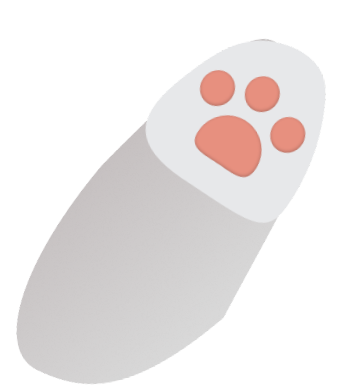
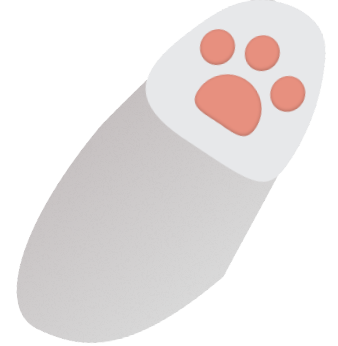
it working work...good

diff --git a/Petsitter/wwwroot/css/site.css b/Petsitter/wwwroot/css/site.css
@@ -1831,16 +1831,16 @@ body.light {
 
 .cat__footer__hand {
     position: absolute;
-    bottom: 0;
-    right: 250px; 
+    bottom: 25px;
+    right: 280px; 
     z-index: -1;
-    width: 400px;
+    width: 300px;
     height: auto;
 }
 
 @keyframes handMove {
     0% {
-        transform: rotate(0deg);
+        transform: rotate(-20deg);
     }
     25% {
        
@@ -1851,7 +1851,7 @@ body.light {
     }
 
     100% {
-        transform: rotate(0deg);
+        transform: rotate(-20deg);
     }
 }
 

diff --git a/Petsitter/Models/PetSitterContext.cs b/Petsitter/Models/PetSitterContext.cs
@@ -29,6 +29,8 @@ namespace Petsitter.Models
         public virtual DbSet<IPN> IPNs { get; set; } = null!;
         public virtual DbSet<Message> Messages { get; set; } = null!;
         public virtual DbSet<Chat> Chats { get; set; } = null!;
+        public virtual DbSet<News> News { get; set; } = null!;
+
 
 
         protected override void OnConfiguring(DbContextOptionsBuilder optionsBuilder)
@@ -391,7 +393,36 @@ namespace Petsitter.Models
                     .HasConstraintName("FK_Chats_User2");
             });
 
+            modelBuilder.Entity<News>(entity =>
+            {
+                entity.HasKey(e => e.Id)
+                    .HasName("PK_News");
+
+                entity.ToTable("News");
+
+                entity.Property(e => e.Id)
+                    .ValueGeneratedOnAdd();
+
+                entity.Property(e => e.Title)
+                    .HasMaxLength(255)
+                    .IsRequired();
+
+                entity.Property(e => e.Body)
+                    .IsRequired();
+
+                entity.Property(e => e.Date)
+                    .IsRequired();
+
+                entity.Property(e => e.Image)
+                    .HasColumnType("varbinary(MAX)");
+
+                entity.Property(e => e.Category)
+                    .HasMaxLength(255);
+            });
+
+
             OnModelCreatingPartial(modelBuilder);
+
         }
 
         partial void OnModelCreatingPartial(ModelBuilder modelBuilder);

diff --git a/Petsitter/ViewModels/NewsVM.cs b/Petsitter/ViewModels/NewsVM.cs
@@ -1,0 +1,29 @@
+using Microsoft.AspNetCore.Mvc.Rendering;
+using Petsitter.Models;
+using System.ComponentModel.DataAnnotations.Schema;
+
+namespace Petsitter.ViewModels
+{
+    public class NewsVM
+    {
+        public int Id { get; set; }
+        public string Title { get; set; }
+        public string Body { get; set; }
+        public DateTime Date { get; set; }
+        public string? Image { get; set; }
+        public string? Category { get; set; }
+
+        public static NewsVM FromModel(News news)
+        {
+            return new NewsVM
+            {
+                Id = news.Id,
+                Title = news.Title,
+                Body = news.Body,
+                Date = news.Date,
+                Image = news.Image,
+                Category = news.Category
+            };
+        }
+    }
+}

diff --git a/Petsitter/Controllers/HomeController.cs b/Petsitter/Controllers/HomeController.cs
@@ -84,7 +84,23 @@ namespace Petsitter.Controllers
         {
             return View();
         }
-        
+
+        public IActionResult News()
+        {
+            var newsItems = _db.News.OrderByDescending(n => n.Date).ToList();
+            var newsVMs = newsItems.Select(n => new NewsVM
+            {
+                Id = n.Id,
+                Title = n.Title,
+                Body = n.Body,
+                Date = n.Date,
+                Image = n.Image, // Map the image property
+                Category = n.Category
+            }).ToList();
+
+            return View(newsVMs);
+        }
+
 
         [ResponseCache(Duration = 0, Location = ResponseCacheLocation.None, NoStore = true)]
         public IActionResult Error()

diff --git a/Petsitter/Controllers/AdminController.cs b/Petsitter/Controllers/AdminController.cs
@@ -75,5 +75,22 @@ namespace Petsitter.Controllers
 
             return RedirectToAction("AddPetType");
         }
+
+        public IActionResult AddNews()
+        {
+            return View();
+        }
+
+        [HttpPost]
+        public IActionResult AddNews(NewsVM newsVM)
+        {
+            AdminRepo adminRep = new AdminRepo(_db, webHostEnvironment);
+            adminRep.AddNews(newsVM);
+
+            // After adding the news, redirect to a success page or display a success message
+            TempData["SuccessMessage"] = "News published successfully!";
+            return RedirectToAction("AddNews"); // or RedirectToAction("NewsList");
+        }
     }
+
 }

diff --git a/Petsitter/Repositories/AdminRepo.cs b/Petsitter/Repositories/AdminRepo.cs
@@ -74,7 +74,20 @@ namespace Petsitter.Repositories
             _db.SaveChanges();
         }
 
+        public void AddNews(NewsVM newsVM)
+        {
+            News newsToAdd = new News
+            {
+                Title = newsVM.Title,
+                Body = newsVM.Body,
+                Date = newsVM.Date,
+                Image = newsVM.Image,
+                Category = newsVM.Category
+            };
 
+            _db.News.Add(newsToAdd);
+            _db.SaveChanges();
+        }
     }
 }
 

diff --git a/Petsitter/Models/News.cs b/Petsitter/Models/News.cs
@@ -1,0 +1,15 @@
+using System;
+using System.Collections.Generic;
+
+namespace Petsitter.Models
+{
+    public class News
+    {
+        public int Id { get; set; }
+        public string Title { get; set; }
+        public string Body { get; set; }
+        public DateTime Date { get; set; }
+        public string? Image { get; set; }
+        public string? Category { get; set; }
+    }
+}
